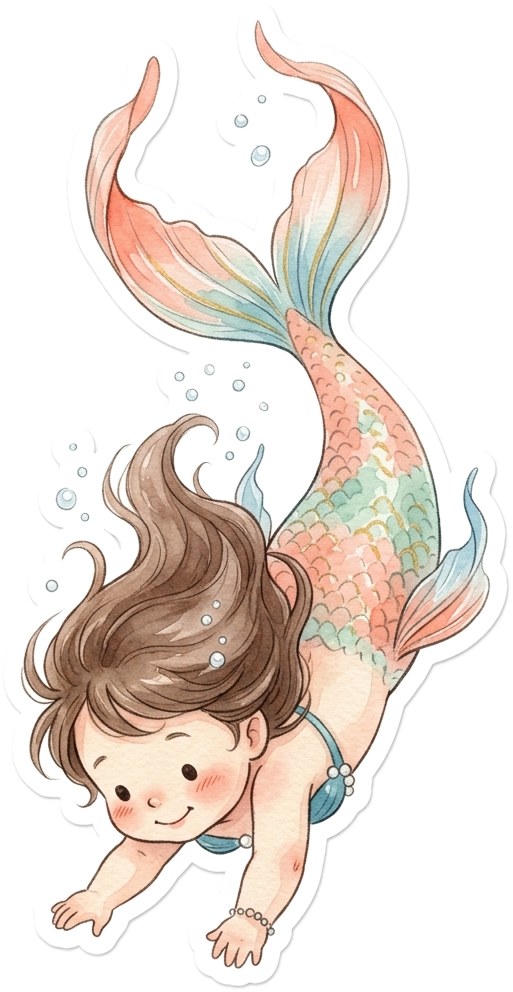
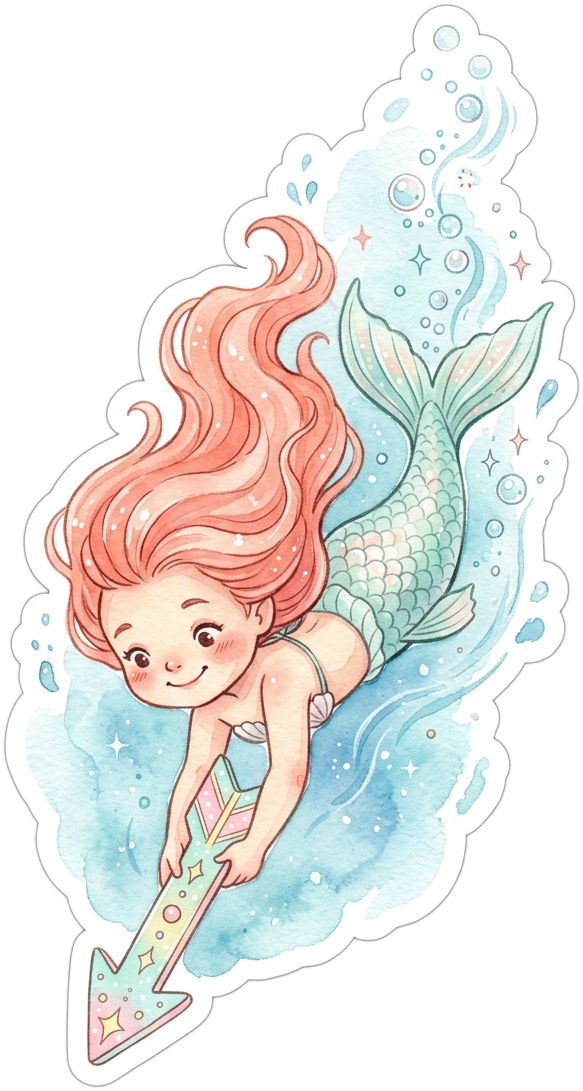
feat: add ghibli underwater background, directional mermaid transition, custom stickers, and interactive bubble effects

diff --git a/app/page.tsx b/app/page.tsx
@@ -4,6 +4,7 @@ import { useState, useEffect, useRef } from "react";
 import Image from "next/image";
 import { motion, AnimatePresence } from "motion/react";
 import { BottomSheet } from "@/components/motion/bottom-sheet";
+import { EnvelopeBubbleBurst, AmbientBubbles } from "@/components/bubbles";
 
 const giftItems = [
   {
@@ -139,6 +140,9 @@ export default function Home() {
         >
           {/* Box aligned to bottom so image bottom never shifts */}
           <div className="relative w-full flex flex-col justify-end h-[345px] sm:h-[380px]">
+            {/* Bubble burst when envelope opens */}
+            <EnvelopeBubbleBurst active={isOpened} />
+
             <Image
               src={isOpened ? "/invitation-card-opened.png" : "/invitation-card-closed.png"}
               alt={isOpened ? "Opened Invitation Card Envelope" : "Closed Invitation Card Envelope"}
@@ -184,6 +188,11 @@ export default function Home() {
         </div>
 
       </main>
+
+      {/* Ambient floating bubbles across the screen while bottom sheet is open */}
+      {sheetOpen && (
+        <AmbientBubbles className="fixed inset-0 pointer-events-none z-40" />
+      )}
 
       {/* CUSTOM BOTTOM SHEET */}
       {/* 1rem padding each side (left-4 right-4), connected flush to the bottom (bottom-0), solid white, no gradients, no emojis */}
@@ -254,7 +263,7 @@ export default function Home() {
 
             {/* Date - Non-italicized numbers and comma */}
             <div className="mt-5">
-              <span className="font-cormorant text-base sm:text-lg font-bold tracking-[0.16em] uppercase text-[#183B49]">
+              <span className="font-sans text-base sm:text-lg font-bold tracking-[0.16em] uppercase text-[#183B49]">
                 October{" "}
                 <span className="font-sans not-italic font-bold tracking-normal text-[#183B49]">
                   10, 2026
@@ -264,16 +273,7 @@ export default function Home() {
           </div>
 
           {/* Section 1: Countdown & Event Locations (7rem space below Date) */}
-          <div className="pt-[7rem] flex flex-col relative">
-            
-            {/* Floating Baby Sea Turtle Sticker in the 7rem gap */}
-            <div className="absolute top-6 left-1/2 -translate-x-1/2 flex flex-col items-center pointer-events-none select-none z-10">
-              <img
-                src="/sticker-baby-turtle.png"
-                alt="Baby sea turtle"
-                className="w-16 sm:w-20 h-auto object-contain drop-shadow-md rotate-[-4deg] hover:scale-105 transition-transform duration-500"
-              />
-            </div>
+          <div className="pt-[7rem] flex flex-col">
             
             {/* Box Card 1: Church Ceremony with Countdown Header */}
             <div className="rounded-2xl border border-stone-200 bg-stone-50 overflow-hidden shadow-xs">
@@ -351,12 +351,12 @@ export default function Home() {
               </div>
             </div>
 
-            {/* Transition Route: Mermaid swimming downward from Church Ceremony to Venue Reception */}
+            {/* Transition Route: Mermaid diving downward pointing to Venue Reception */}
             <div className="flex flex-col items-center justify-center my-3 sm:my-4 select-none" aria-hidden="true">
               <img
                 src="/mermaid-transition.png"
-                alt="Mermaid swimming downward"
-                className="w-20 sm:w-24 h-auto object-contain block drop-shadow-sm transition-transform duration-500 hover:scale-105"
+                alt="Mermaid diving downward pointing to Venue Reception"
+                className="w-15 sm:w-19 h-auto object-contain block drop-shadow-sm rotate-[-18deg] transition-transform duration-500 hover:scale-105"
               />
             </div>
 
@@ -416,28 +416,37 @@ export default function Home() {
                 </div>
               </div>
 
-              {/* Pastel Anemone & Ponyo Goldfish Sticker */}
-              <div className="absolute -bottom-5 -right-3 w-16 sm:w-20 pointer-events-none select-none z-10">
+              {/* Pastel Anemone & Ponyo Goldfish Sticker (Left Side) */}
+              <div className="absolute -bottom-5 -left-3 w-16 sm:w-20 pointer-events-none select-none z-10">
                 <img
                   src="/sticker-anemone-goldfish.png"
                   alt="Anemone and goldfish"
-                  className="w-full h-auto object-contain drop-shadow-md rotate-[4deg] hover:rotate-[7deg] transition-transform duration-300"
+                  className="w-full h-auto object-contain drop-shadow-md rotate-[-4deg] hover:rotate-[8deg] transition-transform duration-300"
                 />
               </div>
             </div>
 
             {/* Section: Dress Code (5rem / mt-20 space) */}
             <div className="mt-20 flex flex-col items-center text-center">
-              <div className="mb-4">
+              <div className="relative mb-4">
                 <h3 className="font-cursive text-5xl sm:text-6xl text-[#183B49] leading-none mb-2">
                   Dress Code
                 </h3>
                 <p className="text-xs sm:text-sm text-stone-600 max-w-xs leading-relaxed font-normal">
                   Semi-formal attire. Pastel colors are warmly appreciated.
                 </p>
+
+                {/* Pastel Clamshell with Pearl Sticker */}
+                <div className="absolute -top-3 -right-6 sm:-right-8 w-14 sm:w-16 pointer-events-none select-none z-10">
+                  <img
+                    src="/sticker-clamshell-pearl.png"
+                    alt="Pastel clamshell with pearl"
+                    className="w-full h-auto object-contain drop-shadow-md rotate-[8deg] hover:rotate-[12deg] transition-transform duration-300"
+                  />
+                </div>
               </div>
 
-              <div className="rounded-2xl border border-stone-200 bg-stone-50 overflow-hidden p-2 sm:p-3 w-full">
+              <div className="rounded-2xl border border-stone-200 bg-stone-50 overflow-hidden p-2 sm:p-3 w-full shadow-xs">
                 <img
                   src="/dress-code.jpg"
                   alt="Dress Code: Semi-formal attire in pastel colors"
@@ -448,13 +457,25 @@ export default function Home() {
 
             {/* Section: Safety Guidelines (5rem / mt-20 space) */}
             <div className="mt-20 flex flex-col items-center text-center">
-              <div className="mb-4">
-                <h3 className="font-cursive text-5xl sm:text-6xl text-[#183B49] leading-none">
+              <div className="relative mb-4 flex items-center justify-center">
+                <h3 className="relative z-10 font-cursive text-5xl sm:text-6xl text-[#183B49] leading-none">
                   Safety Guidelines
                 </h3>
+
+                {/* Gentle Baby Sea Turtle Sticker placed with -z-1 below the text */}
+                <div 
+                  className="absolute -top-3 -right-5 sm:-right-7 w-16 sm:w-20 pointer-events-none select-none -z-1"
+                  style={{ zIndex: -1 }}
+                >
+                  <img
+                    src="/sticker-baby-turtle.png"
+                    alt="Baby sea turtle"
+                    className="w-full h-auto object-contain drop-shadow-xs rotate-[-6deg] opacity-90 transition-transform duration-500"
+                  />
+                </div>
               </div>
 
-              <div className="rounded-2xl border border-stone-200 bg-stone-50 overflow-hidden p-2 sm:p-3 w-full">
+              <div className="rounded-2xl border border-stone-200 bg-stone-50 overflow-hidden p-2 sm:p-3 w-full shadow-xs">
                 <img
                   src="/safety-guidelines.jpg"
                   alt="Safety Guidelines: No smoking, Face mask if you are sick, No kissing, Hand sanitizer"
@@ -466,8 +487,18 @@ export default function Home() {
             {/* Section: Gift Ideas (5rem / mt-20 spacing) */}
             <div className="mt-20 flex flex-col pb-4">
               
-              {/* Header: Centered Gift Ideas + Natural Request Text */}
+              {/* Header: Centered Gift Ideas + Natural Request Text + Treasure Chest Sticker */}
               <div className="text-center flex flex-col items-center mb-8 px-2">
+                
+                {/* Whimsical Vintage Treasure Chest Sticker for Gianna's Savings */}
+                <div className="mb-2 w-16 sm:w-20 pointer-events-none select-none">
+                  <img
+                    src="/sticker-treasure-chest.png"
+                    alt="Treasure chest for Gianna's savings"
+                    className="w-full h-auto object-contain drop-shadow-md rotate-[-3deg] hover:rotate-[0deg] transition-transform duration-300"
+                  />
+                </div>
+
                 <h3 className="font-cursive text-5xl sm:text-6xl text-[#183B49] leading-none mb-3">
                   Gift Ideas
                 </h3>

diff --git a/components/bubbles.tsx b/components/bubbles.tsx
@@ -1,0 +1,99 @@
+"use client";
+
+import React, { useId } from "react";
+
+// Deterministic ambient bubbles configuration
+const AMBIENT_BUBBLES = [
+  { id: 1, left: "6%", size: 14, duration: 8.5, delay: -1.2 },
+  { id: 2, left: "14%", size: 22, duration: 11.2, delay: -5.4 },
+  { id: 3, left: "24%", size: 10, duration: 7.8, delay: -3.1 },
+  { id: 4, left: "32%", size: 28, duration: 13.5, delay: -8.0 },
+  { id: 5, left: "42%", size: 16, duration: 9.6, delay: -2.7 },
+  { id: 6, left: "53%", size: 20, duration: 10.4, delay: -6.5 },
+  { id: 7, left: "64%", size: 12, duration: 8.1, delay: -4.3 },
+  { id: 8, left: "75%", size: 30, duration: 14.2, delay: -9.8 },
+  { id: 9, left: "84%", size: 18, duration: 9.9, delay: -1.8 },
+  { id: 10, left: "92%", size: 15, duration: 8.9, delay: -5.0 },
+  { id: 11, left: "10%", size: 24, duration: 12.0, delay: -7.2 },
+  { id: 12, left: "28%", size: 13, duration: 8.4, delay: -4.0 },
+  { id: 13, left: "48%", size: 26, duration: 12.8, delay: -10.5 },
+  { id: 14, left: "68%", size: 11, duration: 7.5, delay: -2.2 },
+  { id: 15, left: "88%", size: 22, duration: 11.0, delay: -6.8 },
+];
+
+// Burst bubbles for when the envelope is opened
+const BURST_BUBBLES = [
+  { id: 1, left: "50%", bottom: "45%", size: 22, driftX: "-45px", duration: 1.8, delay: 0 },
+  { id: 2, left: "48%", bottom: "48%", size: 16, driftX: "38px", duration: 1.6, delay: 0.08 },
+  { id: 3, left: "52%", bottom: "44%", size: 28, driftX: "-22px", duration: 2.1, delay: 0.12 },
+  { id: 4, left: "47%", bottom: "46%", size: 14, driftX: "55px", duration: 1.5, delay: 0.15 },
+  { id: 5, left: "53%", bottom: "47%", size: 20, driftX: "-60px", duration: 2.0, delay: 0.2 },
+  { id: 6, left: "49%", bottom: "43%", size: 32, driftX: "18px", duration: 2.3, delay: 0.25 },
+  { id: 7, left: "51%", bottom: "49%", size: 12, driftX: "-32px", duration: 1.7, delay: 0.3 },
+  { id: 8, left: "46%", bottom: "45%", size: 24, driftX: "65px", duration: 2.2, delay: 0.35 },
+  { id: 9, left: "54%", bottom: "44%", size: 18, driftX: "-15px", duration: 1.9, delay: 0.4 },
+  { id: 10, left: "50%", bottom: "47%", size: 26, driftX: "-48px", duration: 2.4, delay: 0.45 },
+  { id: 11, left: "48%", bottom: "46%", size: 15, driftX: "42px", duration: 1.8, delay: 0.5 },
+  { id: 12, left: "52%", bottom: "48%", size: 30, driftX: "-28px", duration: 2.2, delay: 0.55 },
+  { id: 13, left: "49%", bottom: "45%", size: 13, driftX: "25px", duration: 1.6, delay: 0.6 },
+  { id: 14, left: "51%", bottom: "43%", size: 20, driftX: "-52px", duration: 2.0, delay: 0.65 },
+];
+
+/**
+ * Continuous floating bubbles inside underwater environments (Bottom sheet or screen)
+ */
+export function AmbientBubbles({ className = "" }: { className?: string }) {
+  return (
+    <div
+      className={`absolute inset-0 pointer-events-none overflow-hidden select-none ${className}`}
+      aria-hidden="true"
+    >
+      {AMBIENT_BUBBLES.map((b) => (
+        <div
+          key={b.id}
+          className="underwater-bubble"
+          style={{
+            left: b.left,
+            bottom: "-40px",
+            width: `${b.size}px`,
+            height: `${b.size}px`,
+            animationDuration: `${b.duration}s`,
+            animationDelay: `${b.delay}s`,
+          }}
+        />
+      ))}
+    </div>
+  );
+}
+
+/**
+ * Celebratory burst of bubbles emerging when the invitation envelope opens
+ */
+export function EnvelopeBubbleBurst({ active }: { active: boolean }) {
+  if (!active) return null;
+
+  return (
+    <div
+      className="absolute inset-0 pointer-events-none overflow-hidden select-none z-20"
+      aria-hidden="true"
+    >
+      {BURST_BUBBLES.map((b) => (
+        <div
+          key={b.id}
+          className="burst-bubble"
+          style={
+            {
+              left: b.left,
+              top: b.bottom,
+              width: `${b.size}px`,
+              height: `${b.size}px`,
+              "--drift-x": b.driftX,
+              animationDuration: `${b.duration}s`,
+              animationDelay: `${b.delay}s`,
+            } as React.CSSProperties
+          }
+        />
+      ))}
+    </div>
+  );
+}

diff --git a/app/globals.css b/app/globals.css
@@ -21,3 +21,93 @@
 .font-cormorant {
   font-family: var(--font-cormorant), 'Cormorant Garamond', Georgia, serif;
 }
+
+/* Underwater Floating Bubbles Animation */
+@keyframes floatBubble {
+  0% {
+    transform: translate3d(0, 105%, 0) scale(0.6);
+    opacity: 0;
+  }
+  15% {
+    opacity: 0.85;
+  }
+  50% {
+    transform: translate3d(14px, 50%, 0) scale(1);
+    opacity: 0.8;
+  }
+  75% {
+    transform: translate3d(-12px, 25%, 0) scale(1.05);
+    opacity: 0.75;
+  }
+  95% {
+    opacity: 0.5;
+  }
+  100% {
+    transform: translate3d(8px, -15%, 0) scale(1.1);
+    opacity: 0;
+  }
+}
+
+@keyframes burstBubble {
+  0% {
+    transform: translate3d(0, 0, 0) scale(0.3);
+    opacity: 0;
+  }
+  20% {
+    opacity: 0.95;
+    transform: translate3d(var(--drift-x, 10px), -35px, 0) scale(0.85);
+  }
+  60% {
+    opacity: 0.8;
+    transform: translate3d(calc(var(--drift-x, 10px) * 1.6), -140px, 0) scale(1.05);
+  }
+  100% {
+    transform: translate3d(calc(var(--drift-x, 10px) * 2.2), -240px, 0) scale(1.15);
+    opacity: 0;
+  }
+}
+
+.underwater-bubble {
+  position: absolute;
+  border-radius: 9999px;
+  pointer-events: none;
+  border: 1px solid rgba(255, 255, 255, 0.75);
+  background: radial-gradient(circle at 35% 35%, rgba(255, 255, 255, 0.92) 0%, rgba(255, 255, 255, 0.25) 45%, rgba(186, 230, 253, 0.35) 75%, rgba(253, 224, 186, 0.2) 100%);
+  box-shadow: inset 0 0 4px rgba(255, 255, 255, 0.6), 0 2px 8px rgba(186, 230, 253, 0.25);
+  animation: floatBubble linear infinite;
+  will-change: transform;
+}
+
+.underwater-bubble::after {
+  content: '';
+  position: absolute;
+  top: 20%;
+  left: 22%;
+  width: 25%;
+  height: 25%;
+  border-radius: 9999px;
+  background: rgba(255, 255, 255, 0.95);
+}
+
+.burst-bubble {
+  position: absolute;
+  border-radius: 9999px;
+  pointer-events: none;
+  border: 1px solid rgba(255, 255, 255, 0.8);
+  background: radial-gradient(circle at 35% 35%, rgba(255, 255, 255, 0.95) 0%, rgba(255, 255, 255, 0.3) 45%, rgba(186, 230, 253, 0.4) 75%, rgba(253, 224, 186, 0.25) 100%);
+  box-shadow: inset 0 0 3px rgba(255, 255, 255, 0.7), 0 2px 6px rgba(186, 230, 253, 0.3);
+  animation: burstBubble cubic-bezier(0.22, 1, 0.36, 1) forwards;
+  will-change: transform;
+}
+
+.burst-bubble::after {
+  content: '';
+  position: absolute;
+  top: 20%;
+  left: 22%;
+  width: 25%;
+  height: 25%;
+  border-radius: 9999px;
+  background: rgba(255, 255, 255, 0.95);
+}
+

diff --git a/components/motion/bottom-sheet.tsx b/components/motion/bottom-sheet.tsx
@@ -10,6 +10,7 @@ import { createPortal } from "react-dom";
 import { EASE_DRAWER } from "@/lib/ease";
 import { PresenceGate } from "@/lib/presence-gate";
 import { cn } from "@/lib/utils";
+import { AmbientBubbles } from "@/components/bubbles";
 
 const DRAWER = { duration: 0.5, ease: EASE_DRAWER } as const;
 
@@ -141,6 +142,9 @@ export function BottomSheet({
                   style={{ backgroundImage: `url(${backgroundImage})` }}
                 />
               )}
+
+              {/* Ambient Floating Underwater Bubbles inside Bottom Sheet */}
+              <AmbientBubbles className="z-1" />
 
               {/* Close Button at Top Right */}
               {showCloseButton && (
